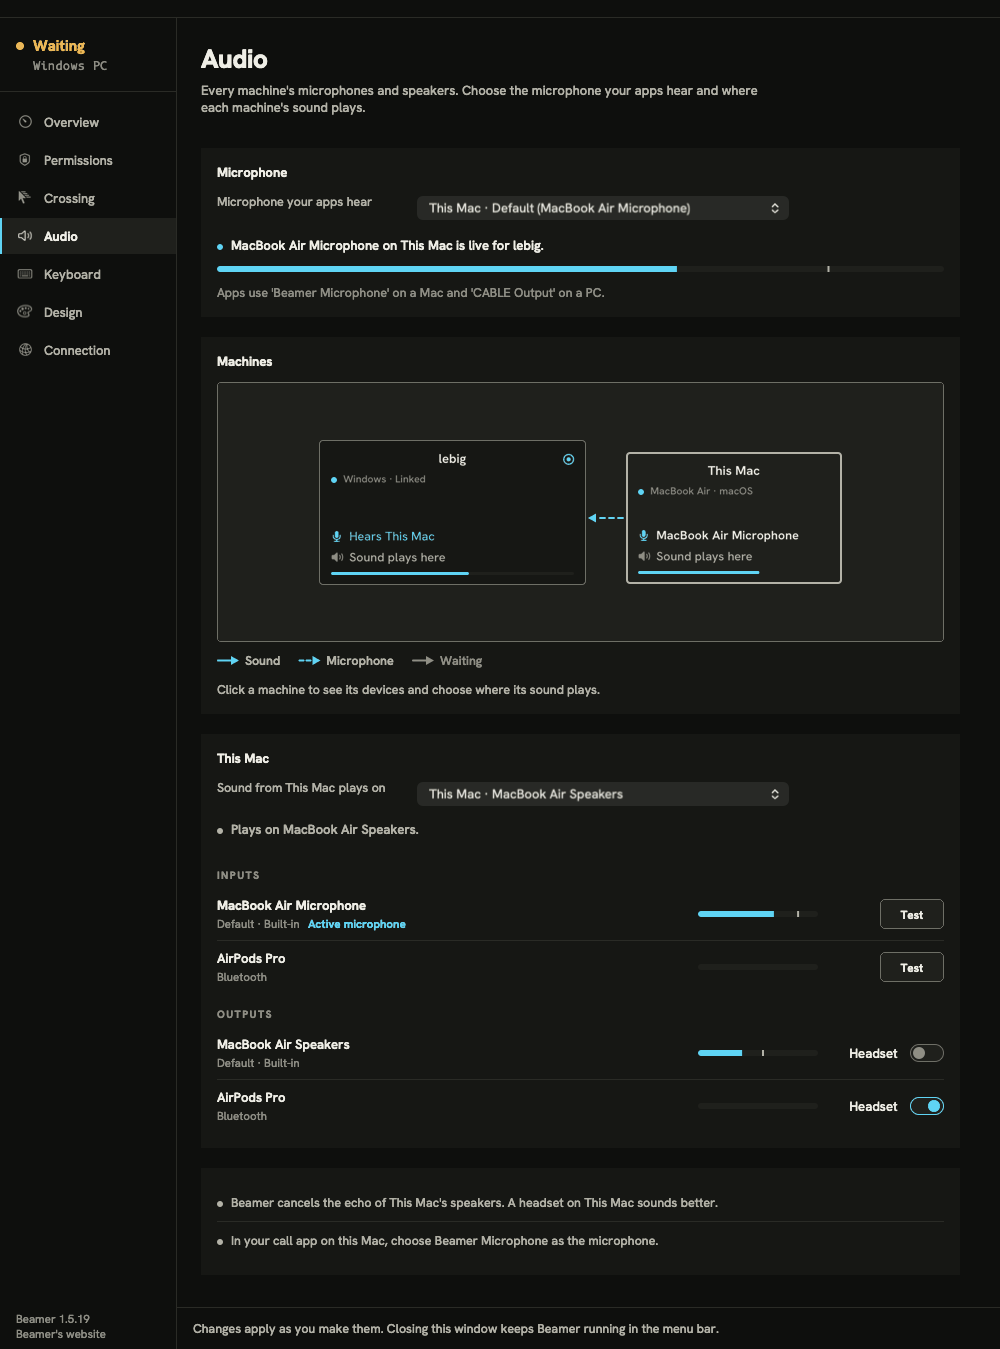
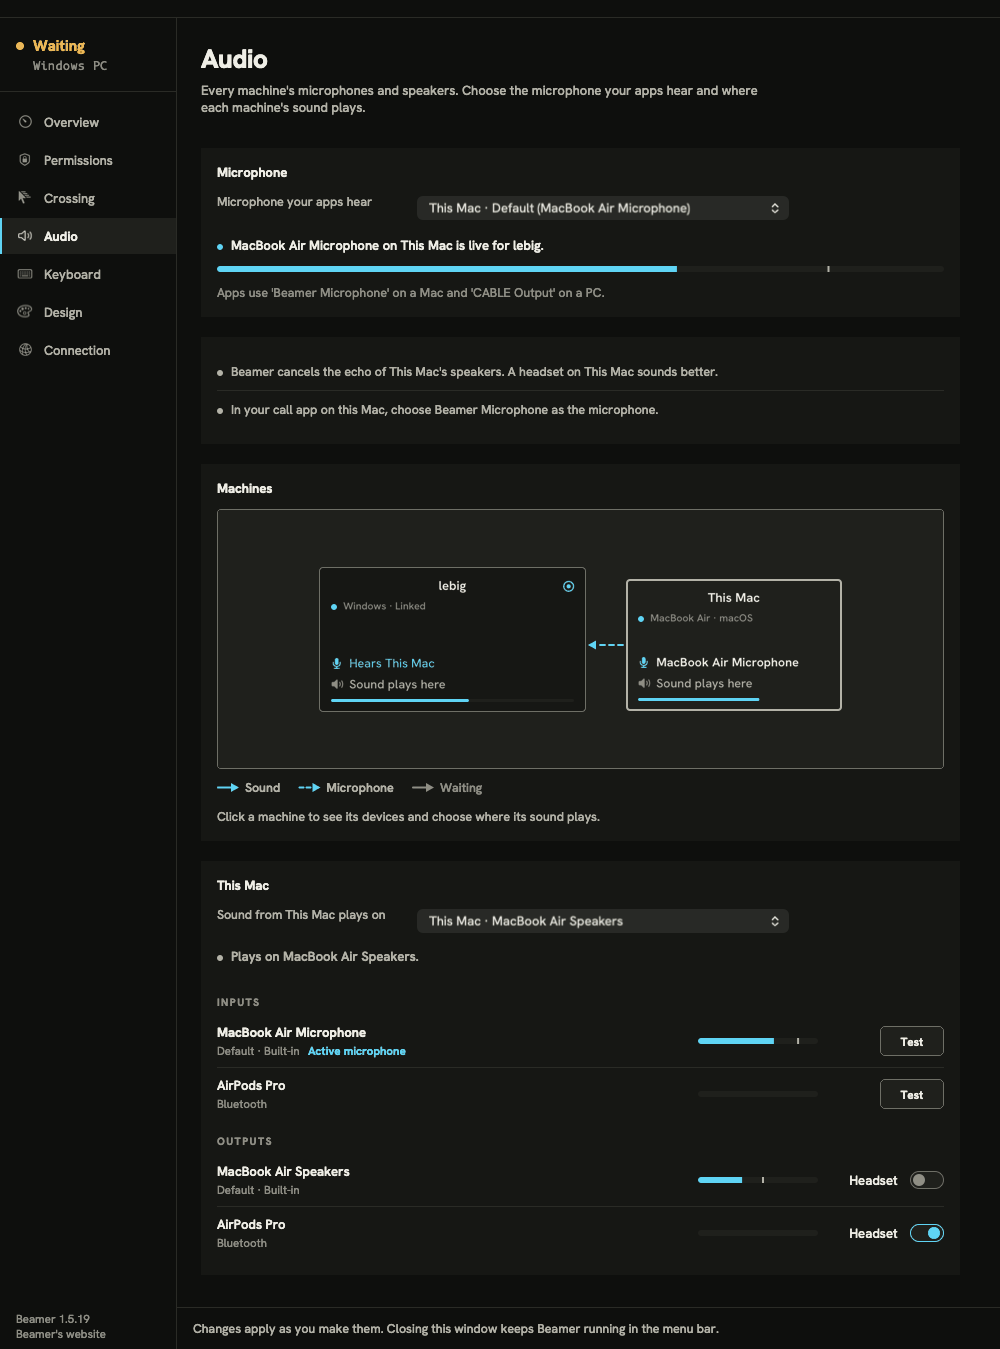
Show the Audio page's notices right under the Microphone module
A missing driver, a denied permission or an echo warning is now seen
without scrolling. PHASE2 §0 and §9.2 give the new order for both apps;
the renders in dev/audio/reports/wp6-shots are refreshed.

diff --git a/mac_app/audio_page.py b/mac_app/audio_page.py
@@ -1,6 +1,6 @@
 # SPDX-License-Identifier: GPL-3.0-only
-"""The Audio page (dev/audio/PHASE2.md §9.2): the microphone your apps hear, the machines on the
-Crossing map with their routes and levels, the selected machine's output and devices, and notices.
+"""The Audio page (dev/audio/PHASE2.md §9.2): the microphone your apps hear, notices, the machines on
+the Crossing map with their routes and levels, and the selected machine's output and devices.
 
 Everything shown comes from `core.audio.view.page_model`; this file only lays it out in AppKit.
 The service's callbacks arrive on its worker thread and hop here with `AppHelper.callAfter`. A
@@ -833,6 +833,18 @@ class AudioPage:
         mic.add(self.mic_hint.view)
         mic.body.setCustomSpacing_afterView_(14, row)
 
+        # Notices right under the microphone, where a missing driver or a denied permission is
+        # seen without scrolling.
+        self.notices_module = widgets.Module(spacing=0)
+        widgets.add(body, self.notices_module.view)
+        self.notices_host = widgets.stack(spacing=0)
+        self.notices_host.setAlignment_(AppKit.NSLayoutAttributeWidth)
+        self.notices_module.add(self.notices_host)
+        self.install_note = widgets.note(ink="fault")
+        self.install_note.view.setHidden_(True)
+        self.notices_module.add(self.install_note.view)
+        self.notice_buttons = []
+
         machines, _ = self._module(body, tr("Machines"))
         self.map = AudioMap.alloc().init().setup()
         self.map.on_select = self._select
@@ -866,15 +878,6 @@ class AudioPage:
         panel.add(self.rows_host)
         panel.body.setCustomSpacing_afterView_(16, line)
 
-        self.notices_module = widgets.Module(spacing=0)
-        widgets.add(body, self.notices_module.view)
-        self.notices_host = widgets.stack(spacing=0)
-        self.notices_host.setAlignment_(AppKit.NSLayoutAttributeWidth)
-        self.notices_module.add(self.notices_host)
-        self.install_note = widgets.note(ink="fault")
-        self.install_note.view.setHidden_(True)
-        self.notices_module.add(self.install_note.view)
-        self.notice_buttons = []
 
     def _row_set(self, panel):
         """(signature, stack, row views) of `panel`'s machine: updated in place while its devices

diff --git a/dev/audio/PHASE2.md b/dev/audio/PHASE2.md
@@ -17,7 +17,7 @@ implementation agents. Section numbers (§) are referenced by the work packages 
 | 5 | Routing | Cluster-wide route document: one **active mic** (machine + device, or off) and per machine an **output** (play here, or send to machine T's device, muted here). The active mic feeds the Beamer virtual mic of **every machine where an app is recording it, and only while it is** (on demand). No pointer-focus rule. Per-entry last-writer-wins stamps. Persisted in `audio.json`. Spec §6. |
 | 6 | UDP | One UDP flow per directly linked pair, carrying all streams both ways. The side that must not listen (Mac) offers; the other answers on 24823 (24824-24830, then any). Both send first (hole punch), so no firewall rule anywhere. TCP fallback over the link after 2 s of UDP silence. Spec §4. |
 | 7 | AEC | Vendored speexdsp echo canceller (MDF + residual echo suppression) in the engine, on the machine that captures the active mic, reference = loopback/tap of that machine's output device; on when that mic is forwarded and the output is not a headset. Headset warning computed in the UI model. Spec §7. |
-| 8 | UI | "Audio" page after Crossing on both apps: active-mic selector, a read-only machine map drawn like the Crossing map (tiles, route arrows, meters), a detail panel for the selected machine, notices. Pure page model `core/audio/view.py` shared by both UIs. Spec §9. |
+| 8 | UI | "Audio" page after Crossing on both apps: active-mic selector, notices, a read-only machine map drawn like the Crossing map (tiles, route arrows, meters), a detail panel for the selected machine. Pure page model `core/audio/view.py` shared by both UIs. Spec §9. |
 | 9 | Packaging | Mac: helper at `Beamer.app/Contents/MacOS/beamer-audio` (universal, hardened runtime, own entitlements), driver bundle at `Contents/Resources/audio/BeamerAudio.driver`; Info.plist usage strings; entitlement `com.apple.security.device.audio-input`. Windows: `beamer-audio.exe` next to `Beamer.exe`. VB-CABLE never bundled. Spec §10. |
 | 10 | Tests | `unittest` for `core/audio` with an in-process fake helper and an N-machine cluster harness; a C++ test binary for the engine on both OSes; a null device backend so the real helper runs in CI-like tests; a two-machine E2E harness driven through dev-only command files. Spec §11. |
 
@@ -663,15 +663,16 @@ Page "Audio" after "Crossing" (Mac SF Symbol `speaker.wave.2`; purpose: "Every m
 speakers. Choose the microphone your apps hear and where each machine's sound plays.").
 1. **Microphone** module: selector "Microphone your apps hear" + level meter + status line + one-line hint
    ("Apps use 'Beamer Microphone' on a Mac and 'CABLE Output' on a PC").
-2. **Machines** module: `AudioMap`, read-only, drawn like the Crossing map (same tile shapes, colours,
+2. **Notices** strip, right under the Microphone module (hidden when empty), so a missing driver, a denied
+   permission or an echo warning is seen without scrolling.
+3. **Machines** module: `AudioMap`, read-only, drawn like the Crossing map (same tile shapes, colours,
    fonts and theme tokens: Mac `theme`/`tokens`, Qt `win_app/theme`/`tokens`), Core Animation layers on the
    Mac (like `diagram.AtlasCanvas`), `QPainter` on Qt; each tile: name, mic glyph when it holds the active mic,
    output line, a thin level bar; arrows for active routes (sound solid, mic dashed, grey when waiting).
    Click a tile = select it (keyboard: arrows/Tab as on the Crossing map).
-3. **Selected machine** module (ledger-like rows): "Sound from <M> plays on" selector; note "Muted on <M>
+4. **Selected machine** module (ledger-like rows): "Sound from <M> plays on" selector; note "Muted on <M>
    while it plays elsewhere"; status; Inputs rows (name, meter, Test); Outputs rows (name, meter,
    "Headset" switch).
-4. Notices strip.
 Meters: a `LevelMeter` widget (horizontal bar, RMS fill + peak tick, -60..0 dBFS), only for devices with a
 level key in the levels map. While the page is visible the app calls `service.watch(True)`.
 

diff --git a/dev/audio/reports/wp6.md b/dev/audio/reports/wp6.md
@@ -33,13 +33,11 @@ thread. WP7 requests: extractor + coverage test now read `core/audio`, `TileView
   status reads the planner's `params["to"]`; output selector disabled while "Here" is the only choice.
 - Edited outside WP6 at the operator's request: `tools/i18n_extract.py`, `core/tests/test_i18n_coverage.py`
   (`SOURCES` += `core/audio`; `_error` of fake_helper.py listed as a diagnostic).
-- §9.2 order kept, but notices sit below the fold (driver missing at y≈1200 pt): suggest the strip under the
-  Microphone module in both apps.
+- Notices strip moved right under the Microphone module (accepted by the operator; PHASE2 §0/§9.2 updated).
 
 **Needs from others**
-1. Whoever lands `AUDIO = True` (WP5): `mac_app/tests/test_pages.py` `test_order`/`test_step` must expect "audio".
-2. WP5: the page reads the service as `controller.audio` (looked up again every 2 s while the page is open);
-   py2app `includes` needs `core.audio.view`.
+1. Done by the operator (33bc196): `test_pages.py` expects "audio"; py2app includes `core.audio.view`.
+2. WP5: the page reads the service as `controller.audio` (looked up again every 2 s while the page is open).
 3. WP7: `TileView.listen_line`/`input_line`/`recording_line` and `FIXTURES_PC` are new since its merge.
 4. Translator: the audio strings in `it.po`. model.py: nothing needed.
 
